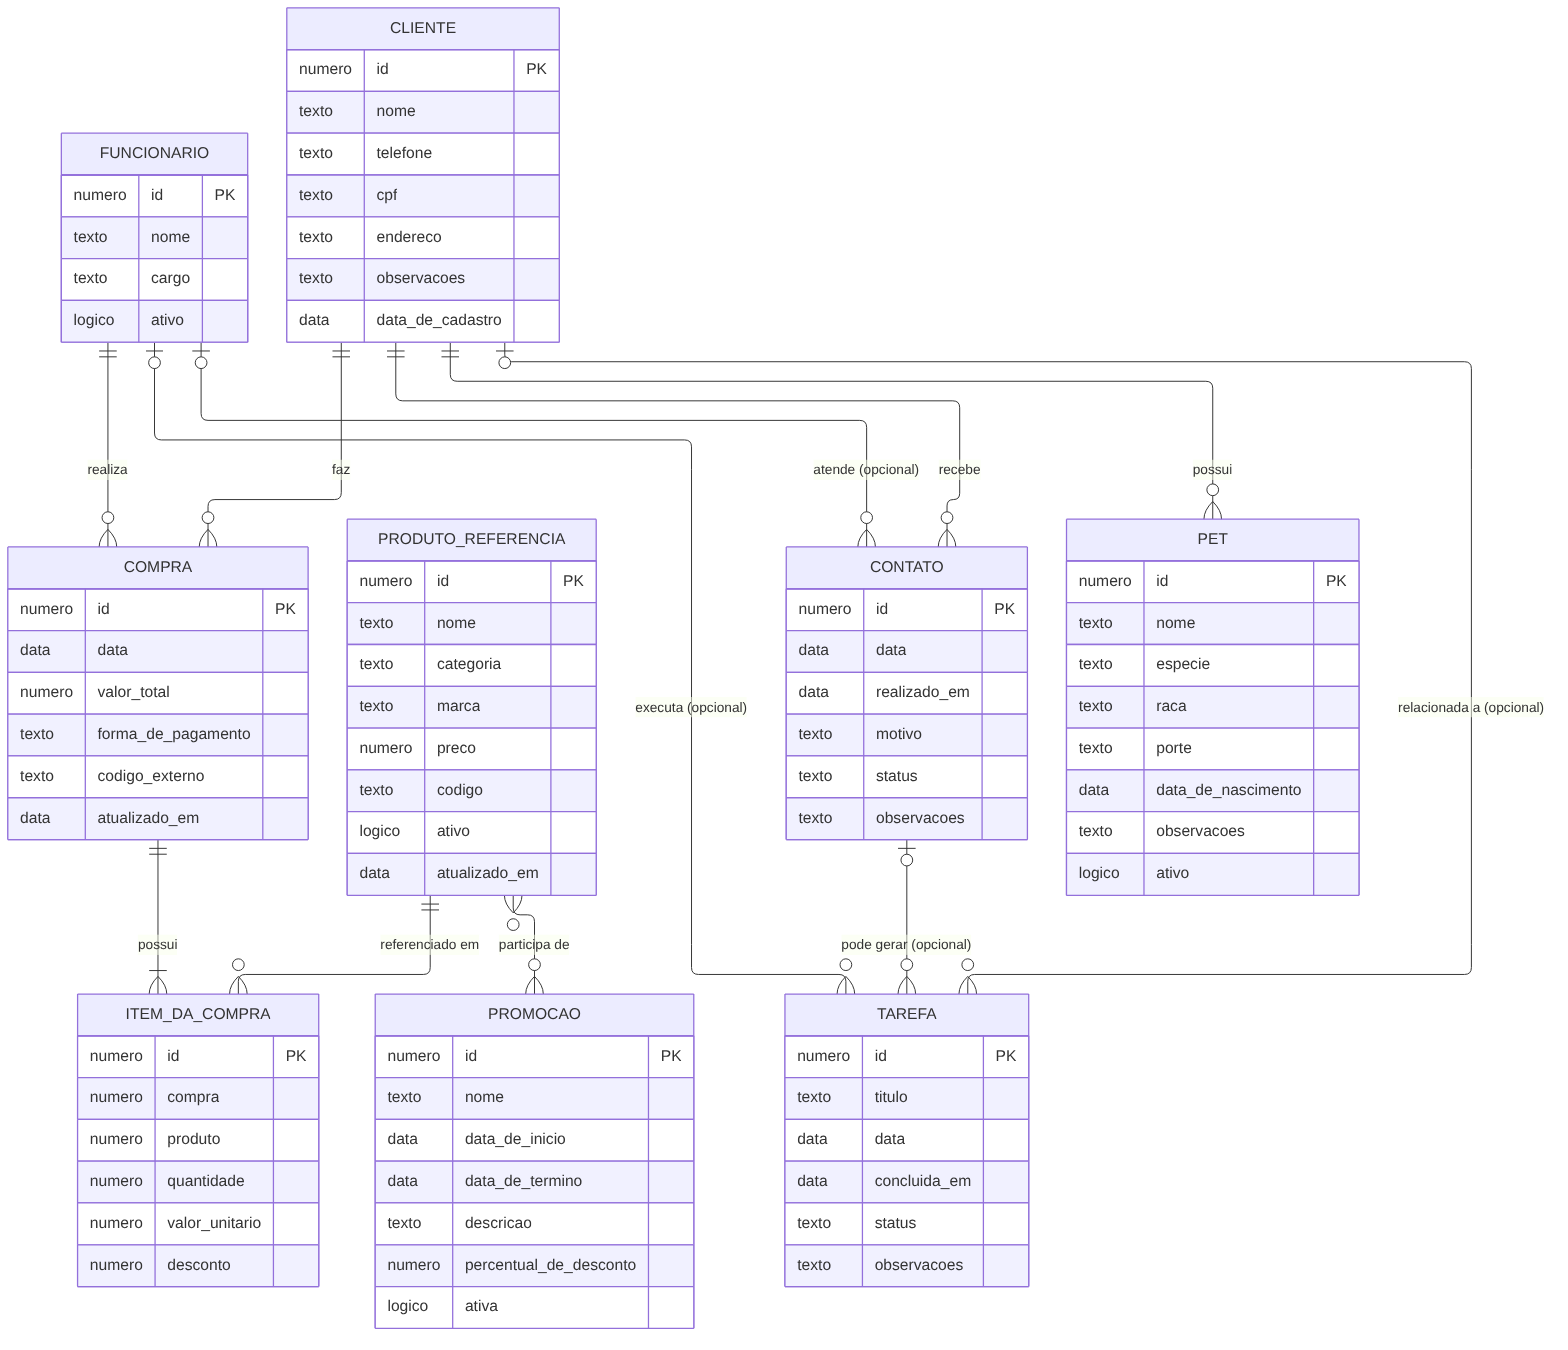
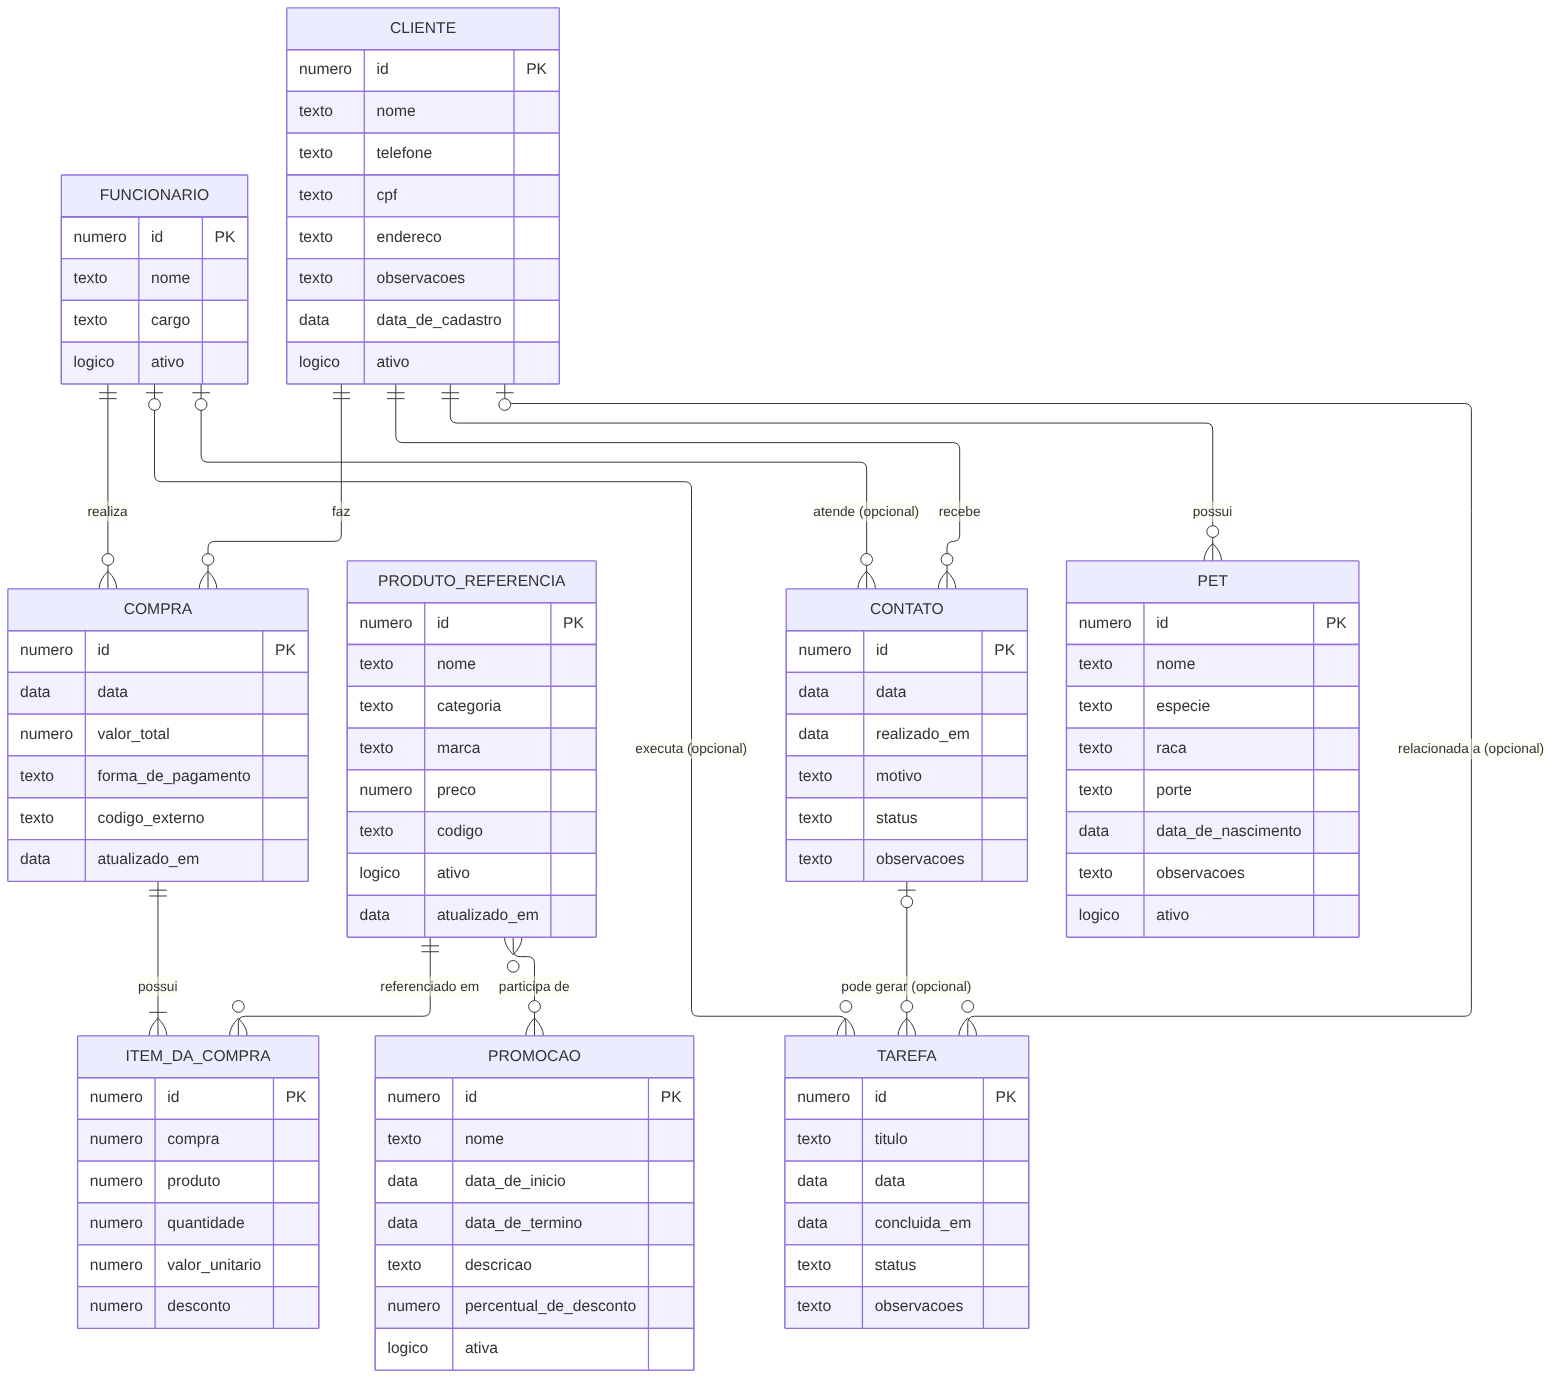
docs: acrescenta ativo ao cliente no der

diff --git a/docs/der.md b/docs/der.md
@@ -28,6 +28,7 @@ erDiagram
         texto endereco
         texto observacoes
         data data_de_cadastro
+        logico ativo
     }
 
     PET {
@@ -125,6 +126,7 @@ erDiagram
 ## Notas
 
 - **O que mudou nesta versão:** entidade `Pet` e relacionamento Cliente 1:N Pet. Padronizado o nome `Tarefas` → `Tarefa` (singular, como as demais entidades). A relação Compra → Item da Compra passou a `|{` (um ou muitos), fiel ao DER original, em que uma compra sempre tem ao menos um item.
+- **Atributo `ativo` em Cliente (acrescentado):** indica se o cliente continua sendo atendido. Clientes inativos não geram contatos automáticos e permanecem no histórico. Não constava na primeira versão do DER.
 - **Atributos opcionais do Pet:** `nome`, `especie`, `raca`, `porte`, `data_de_nascimento` e `observacoes` são opcionais (ver [Requisitos](requisitos.md)). O DER conceitual não mostra obrigatoriedade; ela é registrada no [Dicionário de Dados](dicionario-de-dados.md).
 - **Relacionamento N:N (Produto Referência × Promoção):** no modelo lógico ele se transforma na tabela associativa `produto_promocao`, definida no [Dicionário de Dados](dicionario-de-dados.md). A primeira versão do desenho indicava "zero ou um" no lado Promoção; a cardinalidade correta é "zero ou muitos" nos dois lados, pois um produto pode participar de várias promoções ao longo do tempo.
 - **Atributo `codigo_externo` em Compra (acrescentado):** identificador da venda no sistema Open, que permite referenciar a venda de origem e evitar registros duplicados. Não constava na primeira versão do DER.
